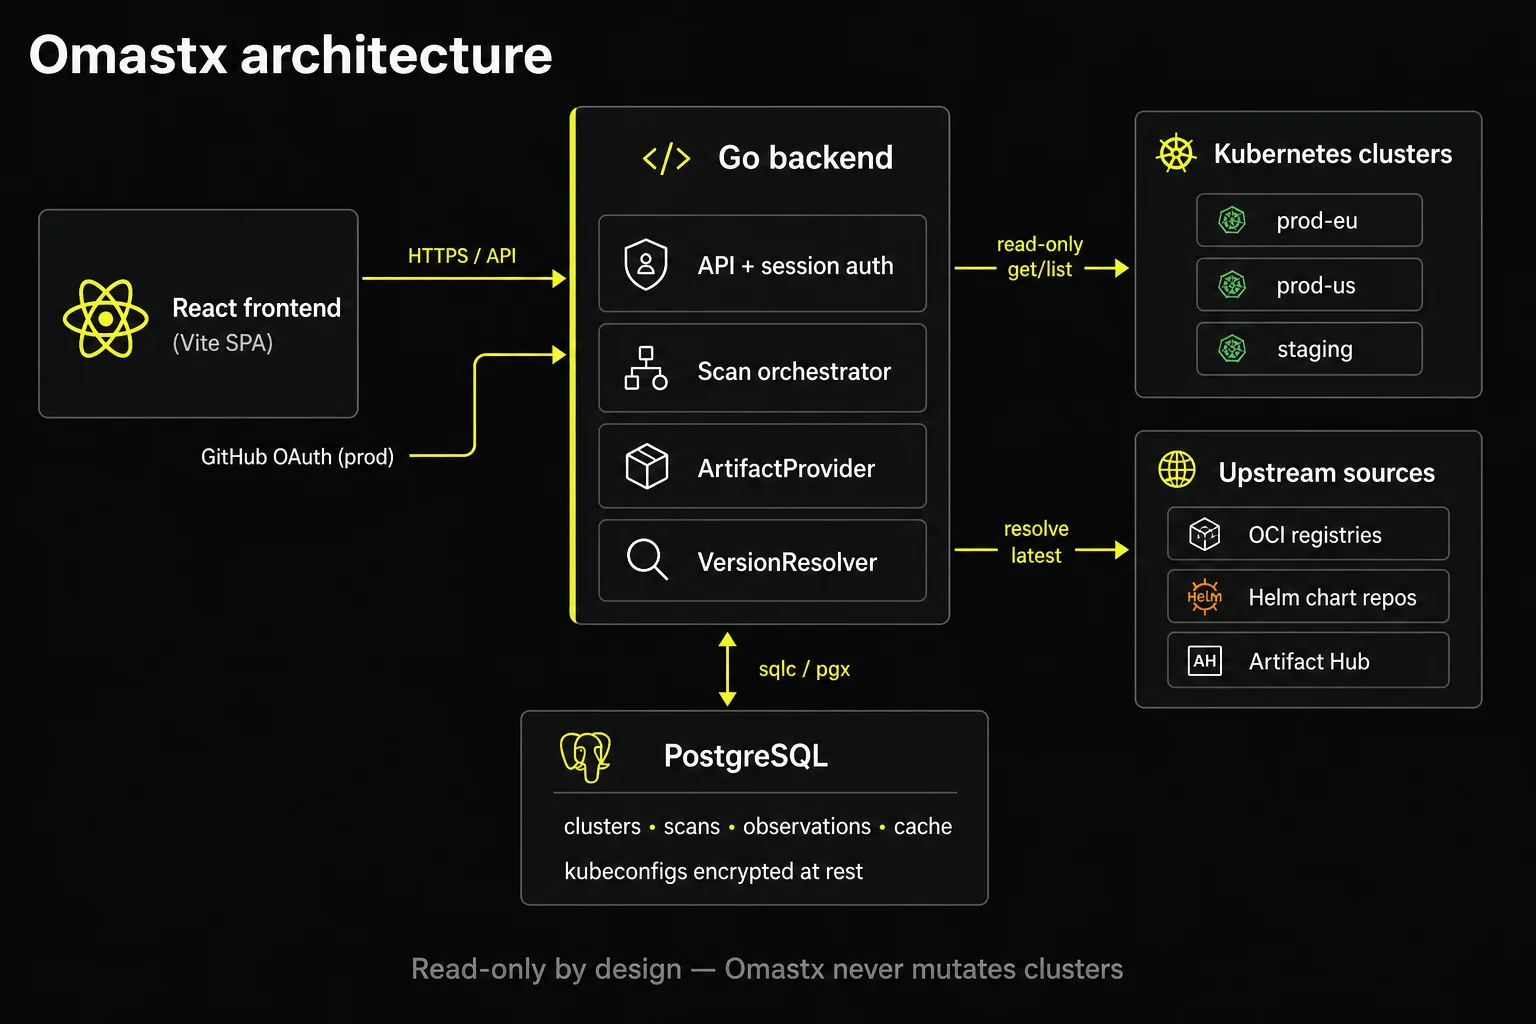
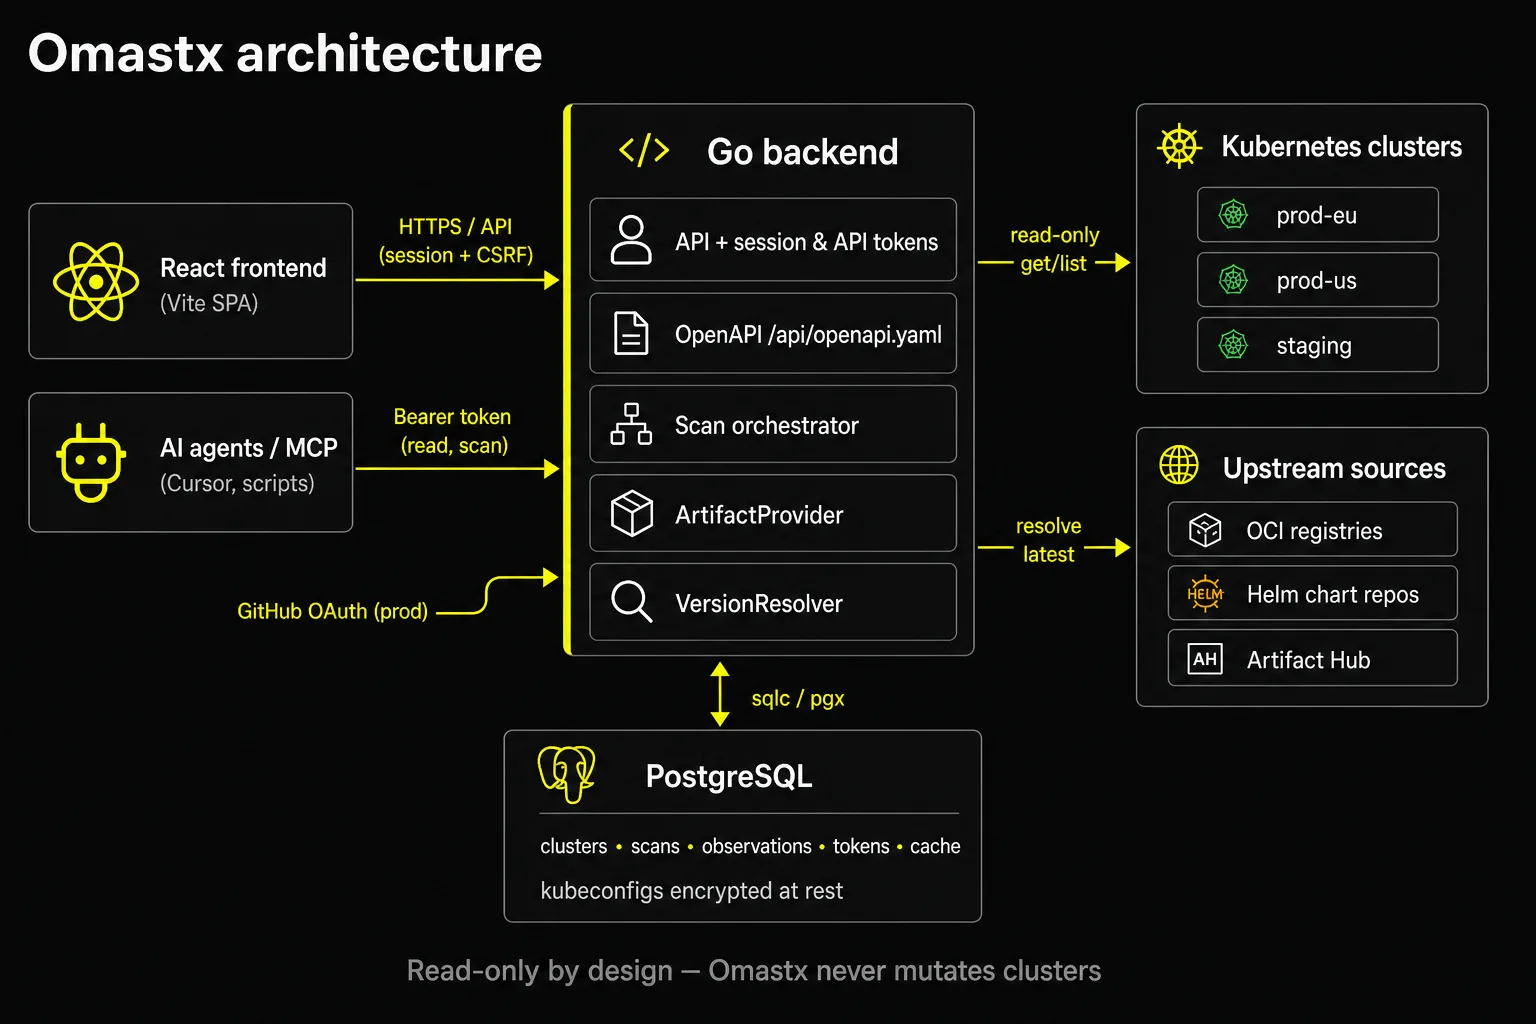
feat: Update Omastx architecture images and descriptions for clarity and accuracy

diff --git a/src/content/blog/omastx/en.md b/src/content/blog/omastx/en.md
@@ -171,8 +171,8 @@ To explore the UI without a real fleet, the repository includes a seed path used
 
 ## Architecture (in short)
 
-![Omastx architecture: React frontend, Go backend, PostgreSQL, read-only Kubernetes clusters, and upstream sources](/blog/omastx/architecture.webp)
-*React frontend, Go backend with pluggable providers/resolvers, PostgreSQL, read-only cluster discovery, and latest-version resolve from OCI registries, Helm repos, and Artifact Hub.*
+![Omastx architecture: React SPA and MCP/Bearer clients, Go API, PostgreSQL, read-only Kubernetes clusters, and upstream sources](/blog/omastx/architecture.webp)
+*React SPA (session + CSRF) and AI agents/MCP (Bearer read/scan), Go backend with OpenAPI, scan orchestrator and pluggable providers/resolvers, PostgreSQL (including API tokens), read-only cluster discovery, and latest-version resolve from OCI registries, Helm repos, and Artifact Hub.*
 
 ## Docker Compose
 

diff --git a/src/content/blog/omastx/it.md b/src/content/blog/omastx/it.md
@@ -171,8 +171,8 @@ Per esplorare la UI senza una fleet reale, il repository include un percorso di 
 
 ## Architettura (in breve)
 
-![Architettura Omastx: frontend React, backend Go, PostgreSQL, cluster Kubernetes in sola lettura e sorgenti upstream](/blog/omastx/architecture.webp)
-*Frontend React, backend Go con provider/resolver pluggable, PostgreSQL, discovery read-only sui cluster e resolve delle versioni da registry OCI, repo Helm e Artifact Hub.*
+![Architettura Omastx: SPA React e client MCP/Bearer, API Go, PostgreSQL, cluster Kubernetes in sola lettura e sorgenti upstream](/blog/omastx/architecture.webp)
+*SPA React (sessione + CSRF) e agent AI/MCP (Bearer read/scan), backend Go con OpenAPI, orchestratore di scan e provider/resolver pluggable, PostgreSQL (inclusi API token), discovery read-only sui cluster e resolve delle versioni da registry OCI, repo Helm e Artifact Hub.*
 
 ## Docker Compose
 